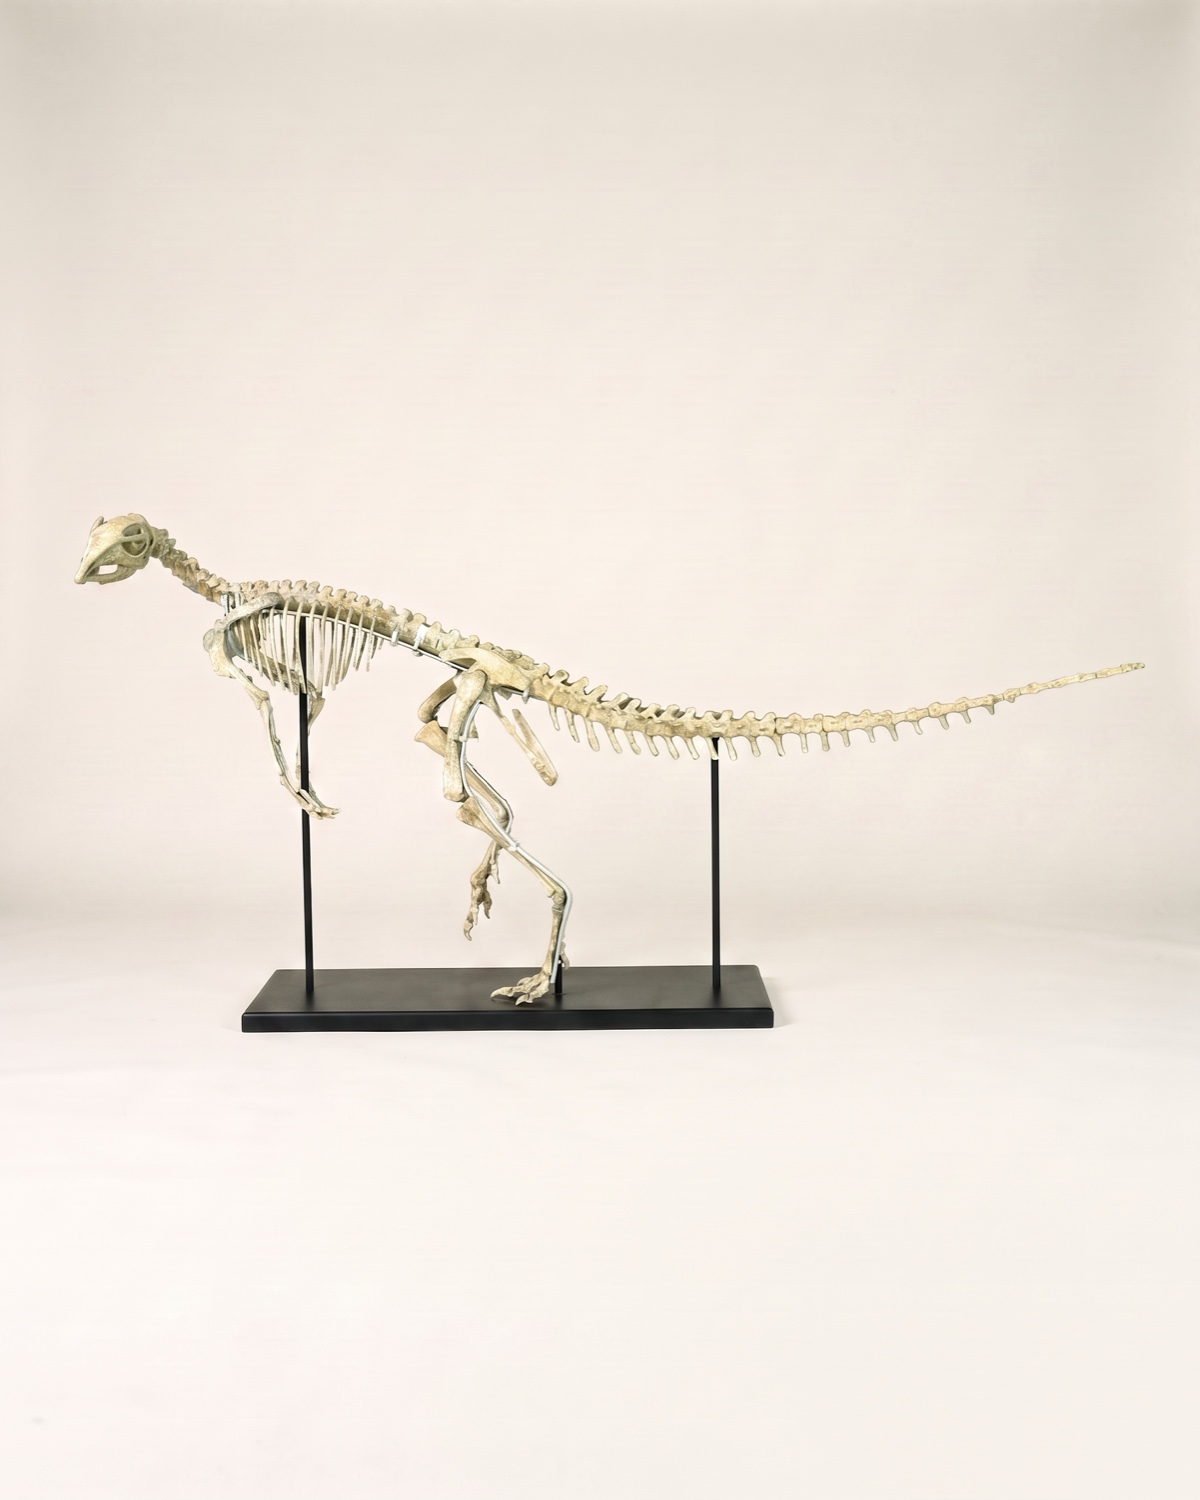
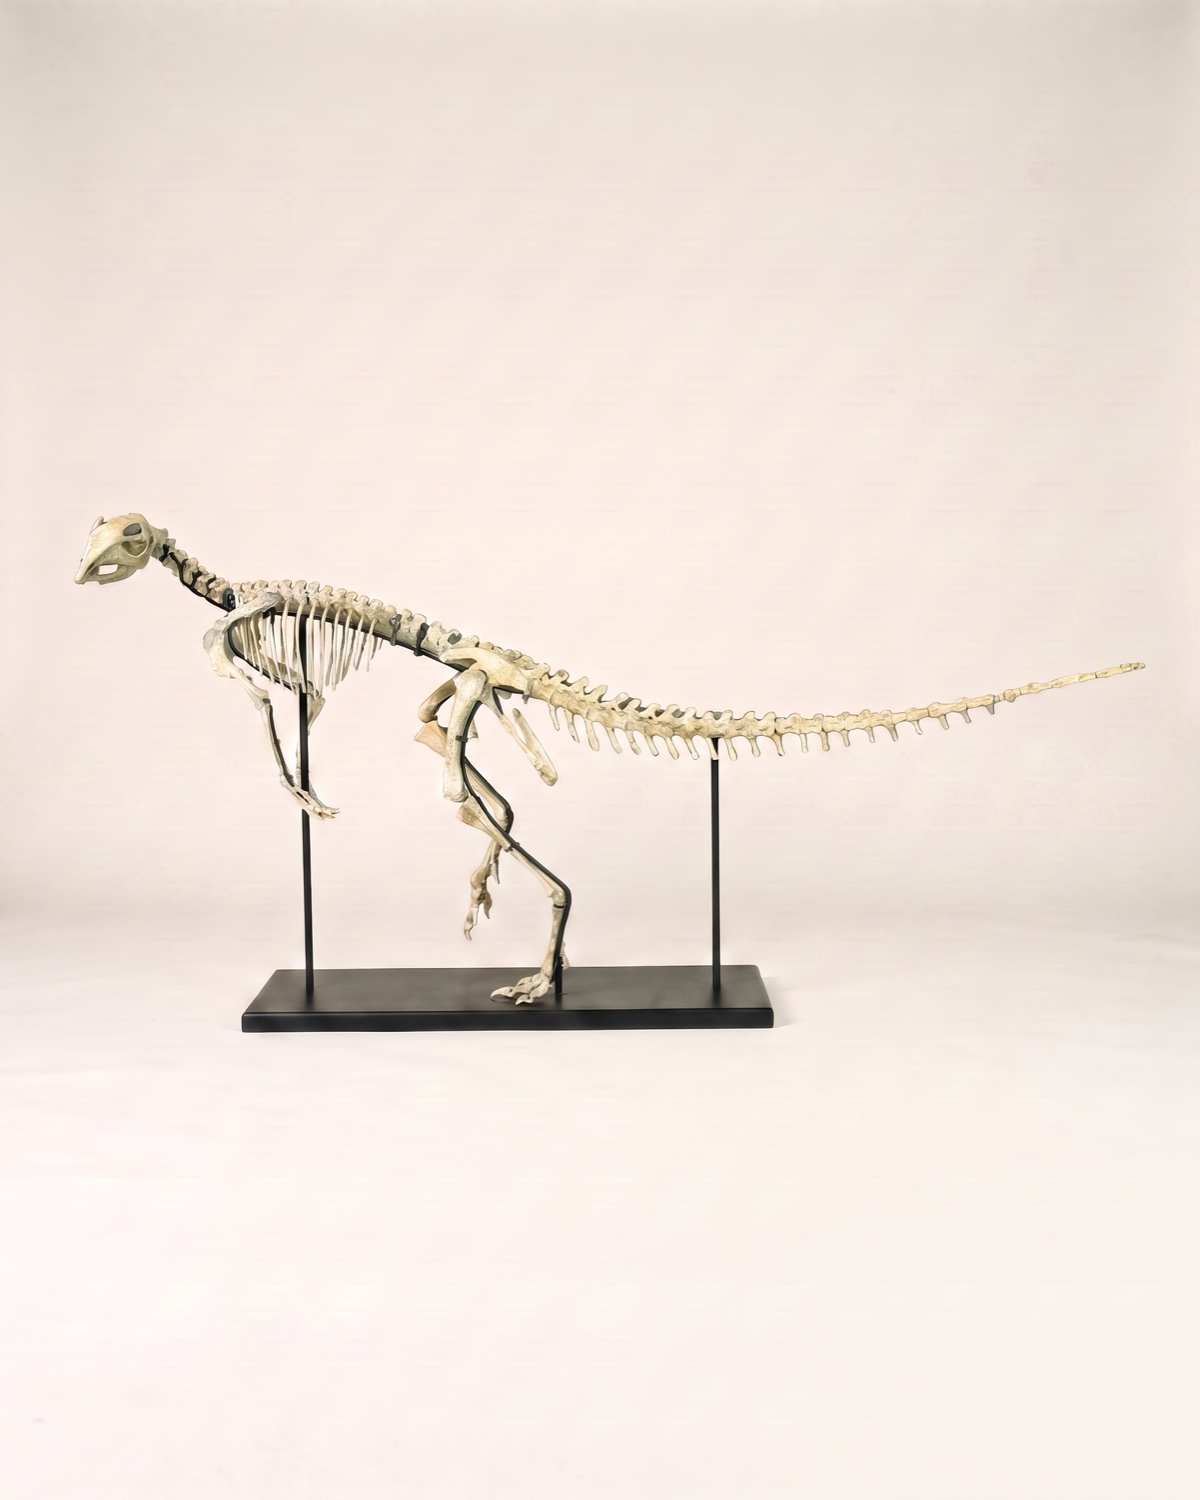
Кэш медиа больше не прячет правки; опоры джехолозавра сведены в один чёрный
«Ничего не изменилось» имело причину: картинки перезаписываются под теми же
именами, а версии в адресе у них не было — браузер отдавал старый кадр из
кэша. Сборщик теперь считает версию медиатеки (имена + размеры файлов
shared/img) и дописывает её ко всем адресам: hero, слои слайдера, 360°,
галерея с плитками и лупой, интерьер, карточки каталога и предрендер. Версия
одна на сборку, меняется при любой правке медиа.

Опоры: у джехолозавра рёбра и заднюю ногу держали проволоки светлой стали —
армтура читалась двумя разными металлами. Теперь весь монтаж одного цвета,
матовый чёрный, как у скелета пситтакозавра. Кости не тронуты.

diff --git a/16_product_promos/exhibit.html b/16_product_promos/exhibit.html
@@ -301,6 +301,9 @@ function find(id){
   return null;
 }
 var IMG='../shared/img/';
+/* Медиа перезаписывается под теми же именами, поэтому к каждому адресу
+   дописываем версию медиатеки — иначе браузер показывает старый кадр. */
+function MV(u){ var v=window.RELICTUM_MV; return v? u+(u.indexOf('?')<0?'?v=':'&v=')+v : u; }
 var id=q(); var o=find(id); var P=(window.RELICTUM_PROMO||{})[o&&o.id];
 var app=document.getElementById('app');
 
@@ -338,7 +341,7 @@ if(!o){
   var spinSec=(P&&P.spin)?(
     '<section class="spin"><div class="wrap">'+
       '<div class="label rv" style="color:var(--deep);margin-bottom:18px">Объект в 360°</div>'+
-      '<div class="sframe rv"><img class="sbg" src="'+IMG+o.img+'.jpg?v=11" alt="" aria-hidden="true" loading="lazy" decoding="async"><video src="'+(P.spin.indexOf('http')===0?P.spin:IMG+P.spin)+'" poster="'+IMG+o.img+'.jpg?v=11" muted loop playsinline autoplay preload="metadata"></video></div>'+
+      '<div class="sframe rv"><img class="sbg" src="'+MV(IMG+o.img+'.jpg')+'" alt="" aria-hidden="true" loading="lazy" decoding="async"><video src="'+(P.spin.indexOf('http')===0?P.spin:IMG+P.spin)+'" poster="'+MV(IMG+o.img+'.jpg')+'" muted loop playsinline autoplay preload="metadata"></video></div>'+
       '<div class="scap rv">Визуализация объекта</div>'+
     '</div></section>'):'';
   /* Пустую характеристику лучше не показывать вовсе, чем показывать прочерк
@@ -361,9 +364,9 @@ if(!o){
   function cmpHTML(pref){
     return '<div class="cmp" id="'+pref+'">'+
       '<div class="frame">'+
-        '<img src="'+IMG+o.img+'.jpg?v=11" alt="'+o.name+'">'+
-        (life.diagram?'<img class="l-anat" src="'+IMG+life.diagram+'" alt="'+o.name+' — анатомическая схема">':'')+
-        '<img class="l-life" src="'+IMG+life.img+'" alt="'+o.name+' — '+(life.stateLabel||'реконструкция при жизни')+'">'+
+        '<img src="'+MV(IMG+o.img+'.jpg')+'" alt="'+o.name+'">'+
+        (life.diagram?'<img class="l-anat" src="'+MV(IMG+life.diagram)+'" alt="'+o.name+' — анатомическая схема">':'')+
+        '<img class="l-life" src="'+MV(IMG+life.img)+'" alt="'+o.name+' — '+(life.stateLabel||'реконструкция при жизни')+'">'+
         '<div class="ln"></div>'+
       '</div>'+
       (life.diagram
@@ -407,7 +410,7 @@ if(!o){
       '<h2 class="rv">Смотрите похожие</h2>'+
       '<div class="grid-objects">'+
         similar.map(function(c){return '<a class="obj-card rv" href="'+sameFolder(c.href)+'">'+
-          '<div class="ph"><img src="'+IMG+c.img+'.jpg?v=11" alt="'+c.name+'" loading="lazy" decoding="async"></div>'+
+          '<div class="ph"><img src="'+MV(IMG+c.img+'.jpg')+'" alt="'+c.name+'" loading="lazy" decoding="async"></div>'+
           '<div class="body"><div class="id">'+c.id+', '+c.worldLabel+'</div>'+
           '<h3>'+c.name+'</h3><div class="latin">'+(c.latin||'')+'</div>'+
           '<div class="meta">'+(c.meta||'')+'</div>'+
@@ -417,7 +420,7 @@ if(!o){
 
   var aliveSec = alive ? (
     '<section class="alive" id="aliveSec" data-video="'+(alive.video?IMG+alive.video:'')+'">'+
-      (alive.poster?'<img class="poster" src="'+IMG+alive.poster+'" alt="" loading="lazy" decoding="async">':'')+
+      (alive.poster?'<img class="poster" src="'+MV(IMG+alive.poster)+'" alt="" loading="lazy" decoding="async">':'')+
       '<div class="veil"></div>'+
       '<div class="in rv">'+
         '<div class="label">'+(o.world==='cosmos'?'До Земли':'При жизни')+'</div>'+
@@ -430,7 +433,7 @@ if(!o){
   var homeSec = interior ? (
     '<section class="home"><div class="wrap">'+
       '<div class="label rv" style="margin-bottom:18px">В вашем доме</div>'+
-      '<div class="big rv" id="intBig"'+(interior.video?' data-video="'+IMG+interior.video+'"':'')+'><img src="'+IMG+interior.img+'" alt="'+o.name+' в интерьере" loading="lazy"></div>'+
+      '<div class="big rv" id="intBig"'+(interior.video?' data-video="'+IMG+interior.video+'"':'')+'><img src="'+MV(IMG+interior.img)+'" alt="'+o.name+' в интерьере" loading="lazy"></div>'+
       '<div class="cap rv"><h3>В пространстве владельца</h3><p>'+interior.text+'</p></div>'+
     '</div></section>') : '';
 
@@ -447,7 +450,7 @@ if(!o){
           var fy=(window.RELICTUM_FOCUS||{})[g], st='', src=IMG+g;
           if(fy==='tile') src=IMG+'tile_'+g;
           else if(fy!==undefined) st=' style="object-position:center '+fy+'%"';
-          return '<div class="gitem rv"><img src="'+src+'" data-full="'+IMG+g+'"'+st+' alt="'+o.name+' — ракурс" loading="lazy"></div>'}).join('')+
+          return '<div class="gitem rv"><img src="'+MV(src)+'" data-full="'+MV(IMG+g)+'"'+st+' alt="'+o.name+' — ракурс" loading="lazy"></div>'}).join('')+
       '</div>'+
     '</div></section>') : '';
 
@@ -472,7 +475,7 @@ if(!o){
        это самый крупный элемент страницы, ленивая загрузка его тормозила.
        Ветка heroVideo убрана: поля heroVideo в promo-data больше нет
        (ролики чёрной студии вынесены в отдельную библиотеку 05.08). */
-    '<div class="ph rv"><img src="'+IMG+o.img+'.jpg?v=11" alt="'+o.name+'" fetchpriority="high" decoding="async">'+
+    '<div class="ph rv"><img src="'+MV(IMG+o.img+'.jpg')+'" alt="'+o.name+'" fetchpriority="high" decoding="async">'+
     ((P&&P.profile&&P.profile.facts&&(P.profile.facts['Сохранность']||P.profile.facts['Ценность']||P.profile.facts['Редкость']))?
       '<div class="apprise">'+
         (P.profile.facts['Сохранность']?'<div class="row"><span>Сохранность</span><b>'+P.profile.facts['Сохранность']+'</b></div>':'')+(P.profile.facts['Редкость']?'<div class="row"><span>Редкость</span><b>'+P.profile.facts['Редкость']+'</b></div>':'')+

diff --git a/02_site_v1_gallery/catalog.html b/02_site_v1_gallery/catalog.html
@@ -222,6 +222,7 @@
 </footer>
 
 <script src="../shared/catalog.js"></script>
+<script src="../shared/focus.js"></script>
 <script>
 const CATALOG = window.RELICTUM_CATALOG;
 
@@ -350,7 +351,7 @@ function render() {
   // остальные лениво. Ленивая загрузка того, что уже на экране, только тормозит.
   grid.innerHTML = items.length ? items.map((o, n) => `
     <a class="obj-card" href="${o.href||('object.html?id='+encodeURIComponent(o.id))}">
-      <div class="ph">${o.status?'<span class="badge">'+o.status+'</span>':''}<img src="../shared/img/${o.img}.jpg?v=11" alt="${o.name}"${n < 4 ? '' : ' loading="lazy"'} decoding="async"></div>
+      <div class="ph">${o.status?'<span class="badge">'+o.status+'</span>':''}<img src="../shared/img/${o.img}.jpg?v=${window.RELICTUM_MV||11}" alt="${o.name}"${n < 4 ? '' : ' loading="lazy"'} decoding="async"></div>
       <div class="body">
         <div class="id">${o.id}, ${o.worldLabel}</div>
         <h3>${o.name}</h3>

diff --git a/09_admin/build_public_site.py b/09_admin/build_public_site.py
@@ -354,6 +354,28 @@ def make_tile(src, img_dir, name):
     bg.save(os.path.join(img_dir, 'tile_' + name), quality=88)
 
 
+_MEDIA_STAMP = None
+
+
+def media_stamp():
+    """Версия медиатеки: имена и размеры файлов shared/img.
+
+    Картинки перезаписываются под теми же именами; без версии в адресе браузер
+    неделями показывает из кэша прежний кадр — правка «не доходит».
+    """
+    global _MEDIA_STAMP
+    if _MEDIA_STAMP:
+        return _MEDIA_STAMP
+    import hashlib
+    d = os.path.join(ROOT, 'shared', 'img')      # считаем по исходной медиатеке:
+    h = hashlib.sha1()                            # срез собирается в несколько шагов,
+    for f in sorted(os.listdir(d)):               # и версия должна быть одна на всю сборку
+        h.update(f.encode('utf-8'))
+        h.update(str(os.path.getsize(os.path.join(d, f))).encode('utf-8'))
+    _MEDIA_STAMP = h.hexdigest()[:8]
+    return _MEDIA_STAMP
+
+
 def write_focus_map():
     """Считает вертикальную посадку объекта в каждом кадре галереи.
 
@@ -406,9 +428,15 @@ def write_focus_map():
             continue
         p = (centre - vis / 2) / (1 - vis)
         focus[f] = round(max(0.0, min(1.0, p)) * 100)
+    # Версия медиатеки. Картинки перезаписываются под теми же именами, и без
+    # неё браузер отдаёт из кэша старый кадр — правку не видно неделями.
+    mv = media_stamp()
+
     path = os.path.join(OUT, 'shared', 'focus.js')
     with open(path, 'w', encoding='utf-8') as fh:
         fh.write('window.RELICTUM_FOCUS = ' + json.dumps(focus, ensure_ascii=False) + ';\n')
+        fh.write("window.RELICTUM_MV = '" + mv + "';\n")
+    print(f'   версия медиатеки: {mv}')
     print(f'   focus.js: посадка посчитана для {len(focus)} кадров')
 
 
@@ -438,7 +466,7 @@ def prerender_catalog():
         cards.append(
             '<a class="obj-card" href="' + esc(href) + '">'
             '<div class="ph">' + (('<span class="badge">' + esc(o['status']) + '</span>') if o.get('status') else '')
-            + '<img src="shared/img/' + img + '.jpg?v=11" alt="' + esc(name) + '"' + lazy + ' decoding="async"></div>'
+            + '<img src="shared/img/' + img + '.jpg?v=' + media_stamp() + '" alt="' + esc(name) + '"' + lazy + ' decoding="async"></div>'
             '<div class="body"><div class="id">' + o['id'] + ', ' + esc(world) + '</div>'
             '<h3>' + esc(name) + '</h3><div class="latin">' + esc(latin) + '</div>'
             '<div class="meta">' + meta + '</div>'
